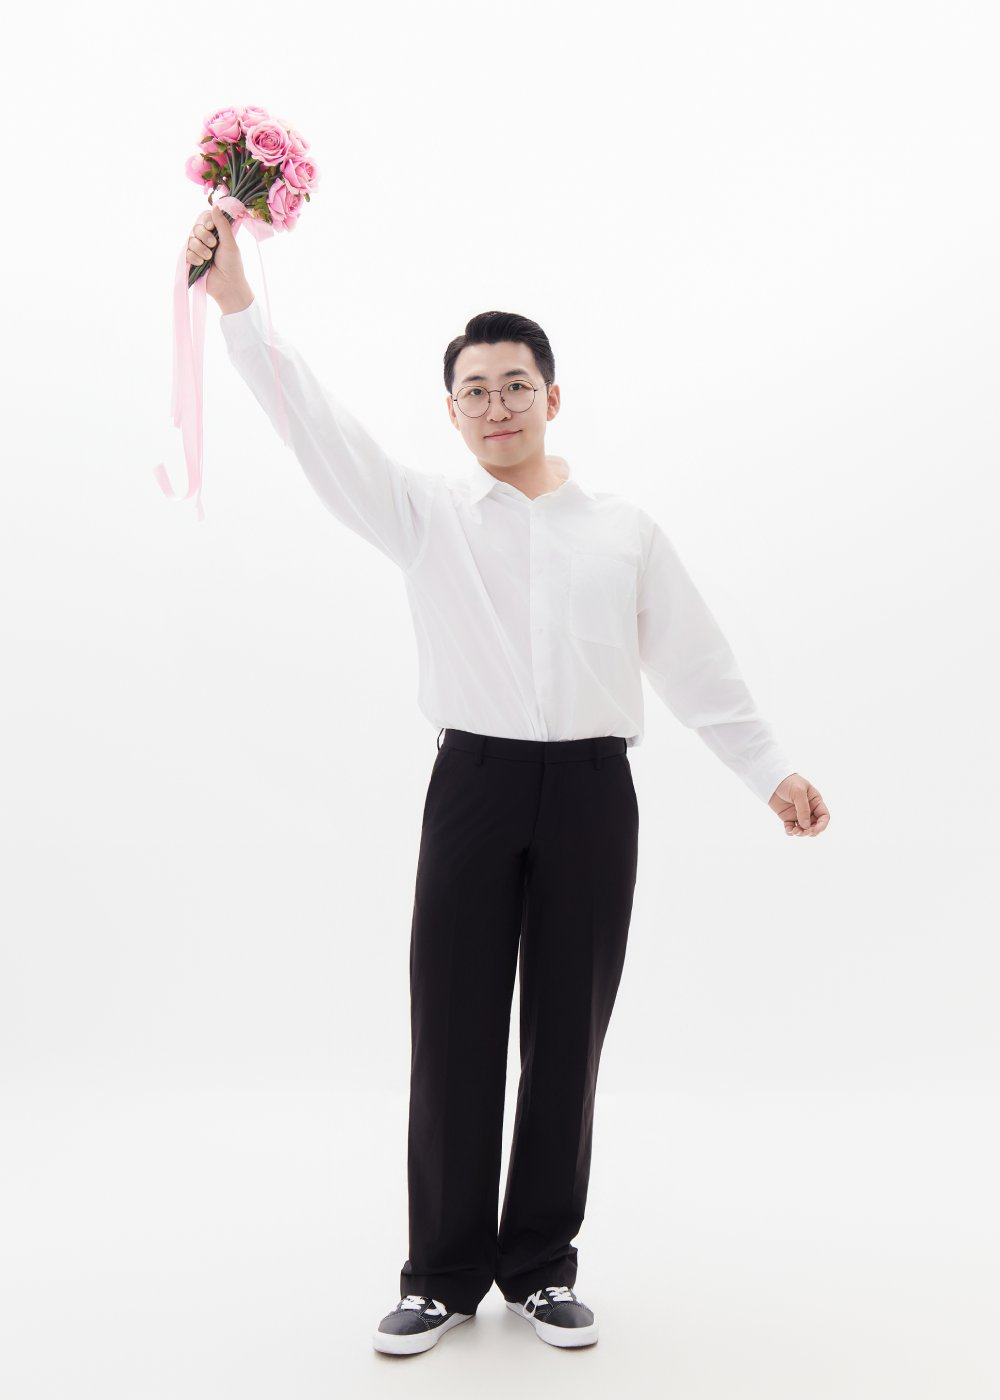
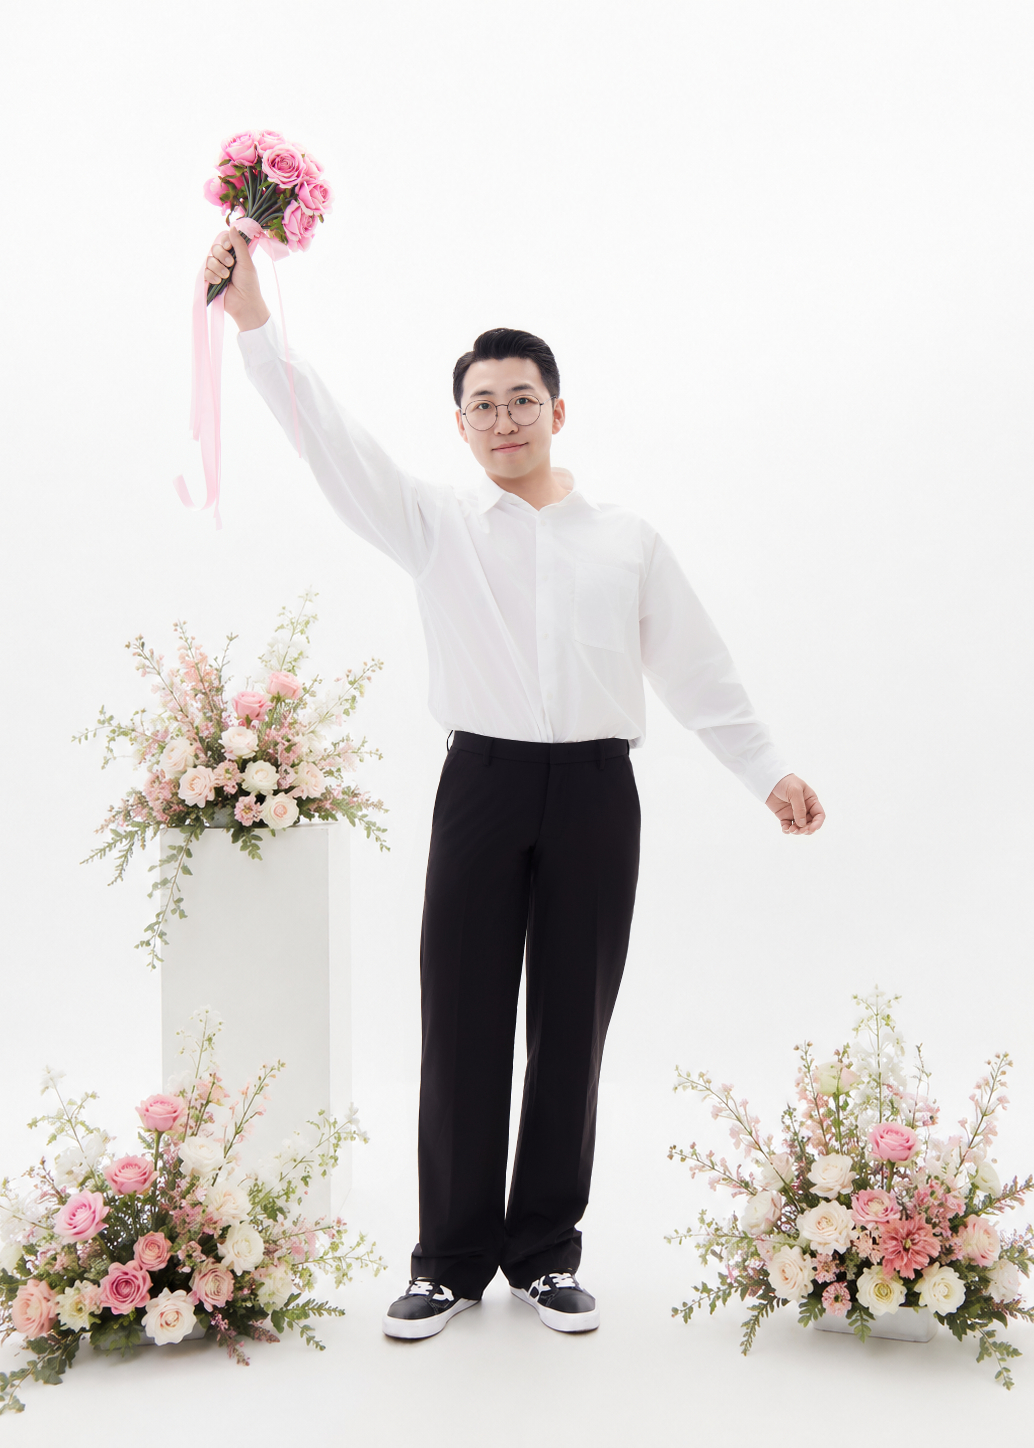
fix: 이미지 수정

diff --git a/src/mocks/assetPaths.ts b/src/mocks/assetPaths.ts
@@ -36,9 +36,9 @@ import gallery24 from '@/assets/images/gallery/24.jpg';
 import gallery25 from '@/assets/images/gallery/25.jpg';
 import gallery26 from '@/assets/images/gallery/26.jpg';
 import gallery27 from '@/assets/images/gallery/27.jpg';
-import gallery28 from '@/assets/images/gallery/28.jpg';
+import gallery28 from '@/assets/images/gallery/28.png';
 import gallery29 from '@/assets/images/gallery/29.jpg';
-import gallery30 from '@/assets/images/gallery/30.jpg';
+import gallery30 from '@/assets/images/gallery/30.png';
 import gallery31 from '@/assets/images/gallery/31.jpg';
 import tabWelcomeDrinks from '@/assets/images/tabWelcomeDrinks.png';
 import tabBrideWaiting from '@/assets/images/tabBrideWaiting.jpg';